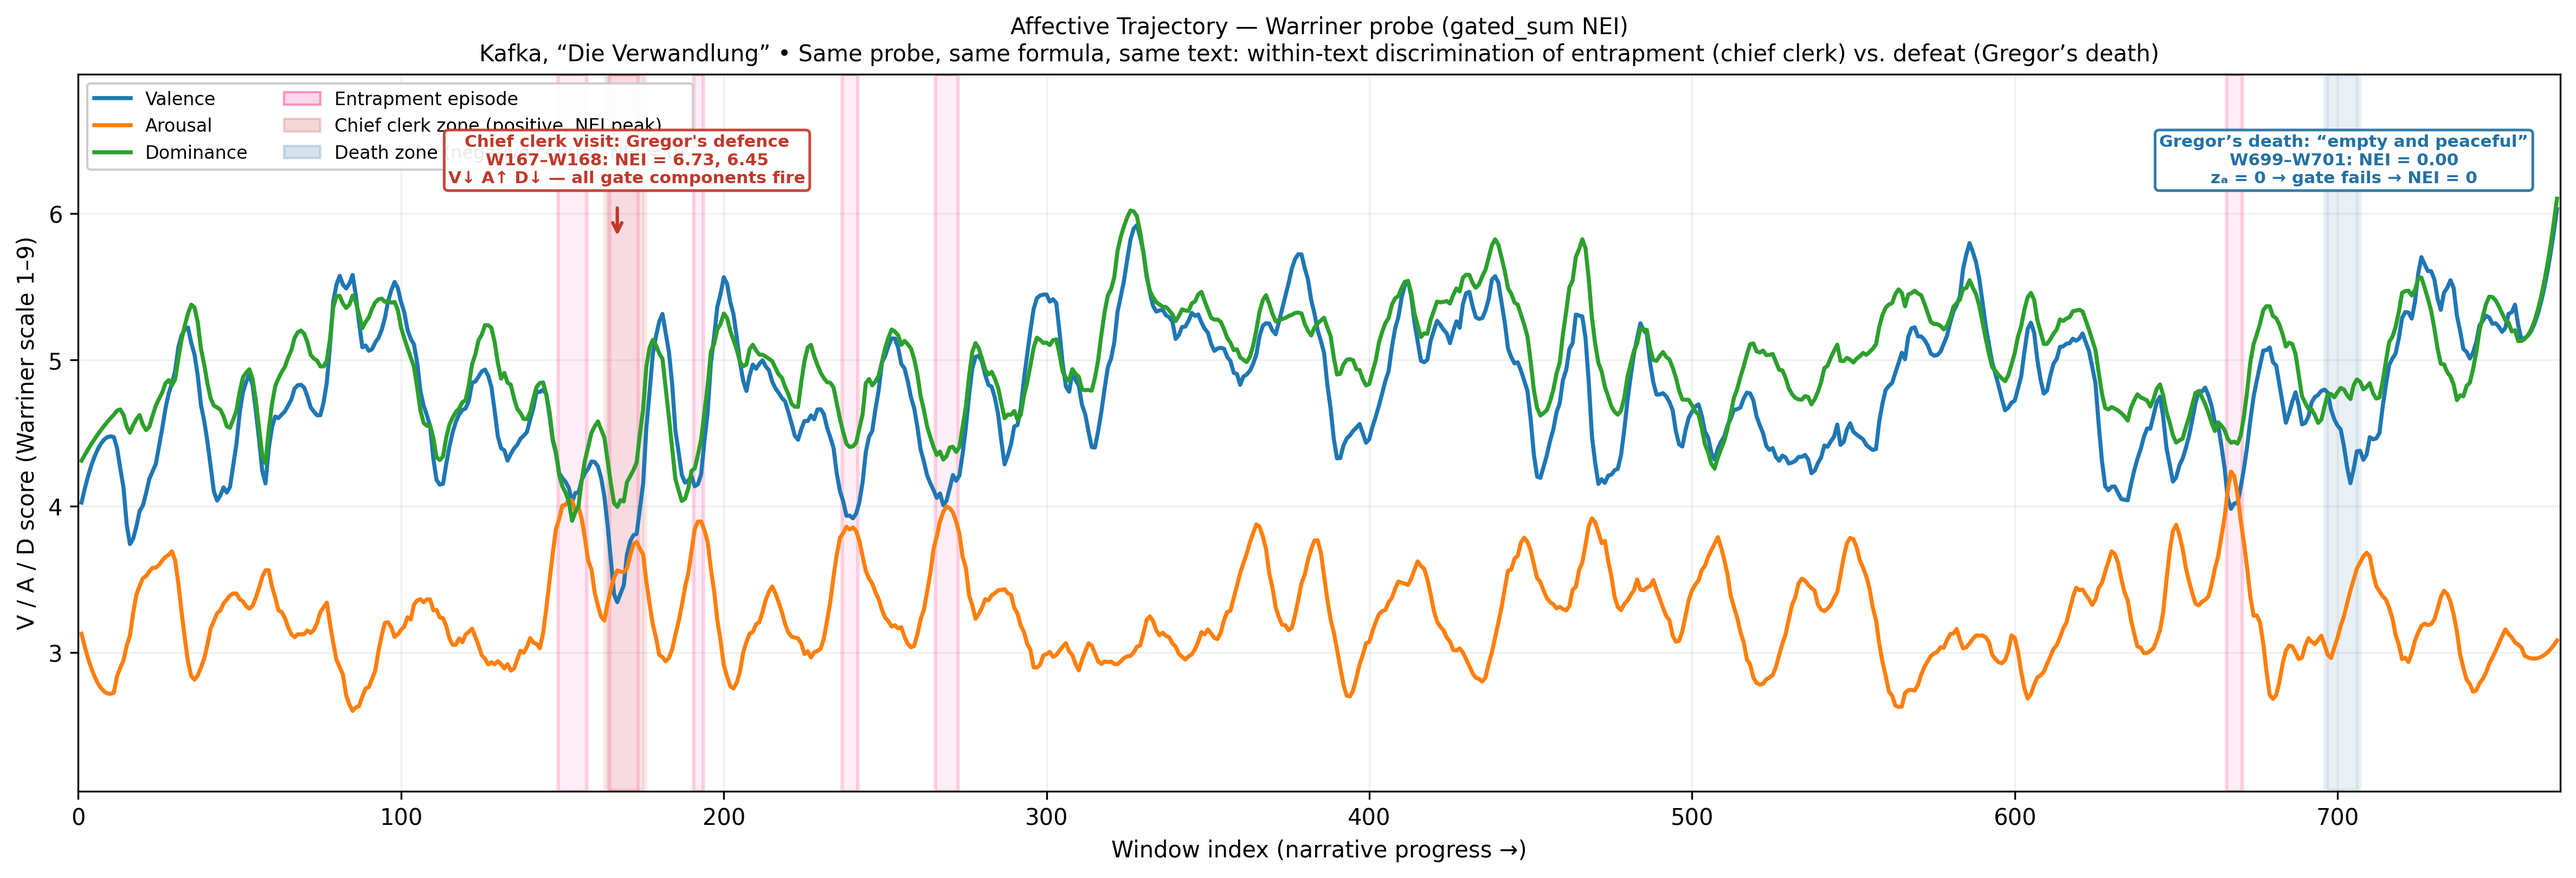
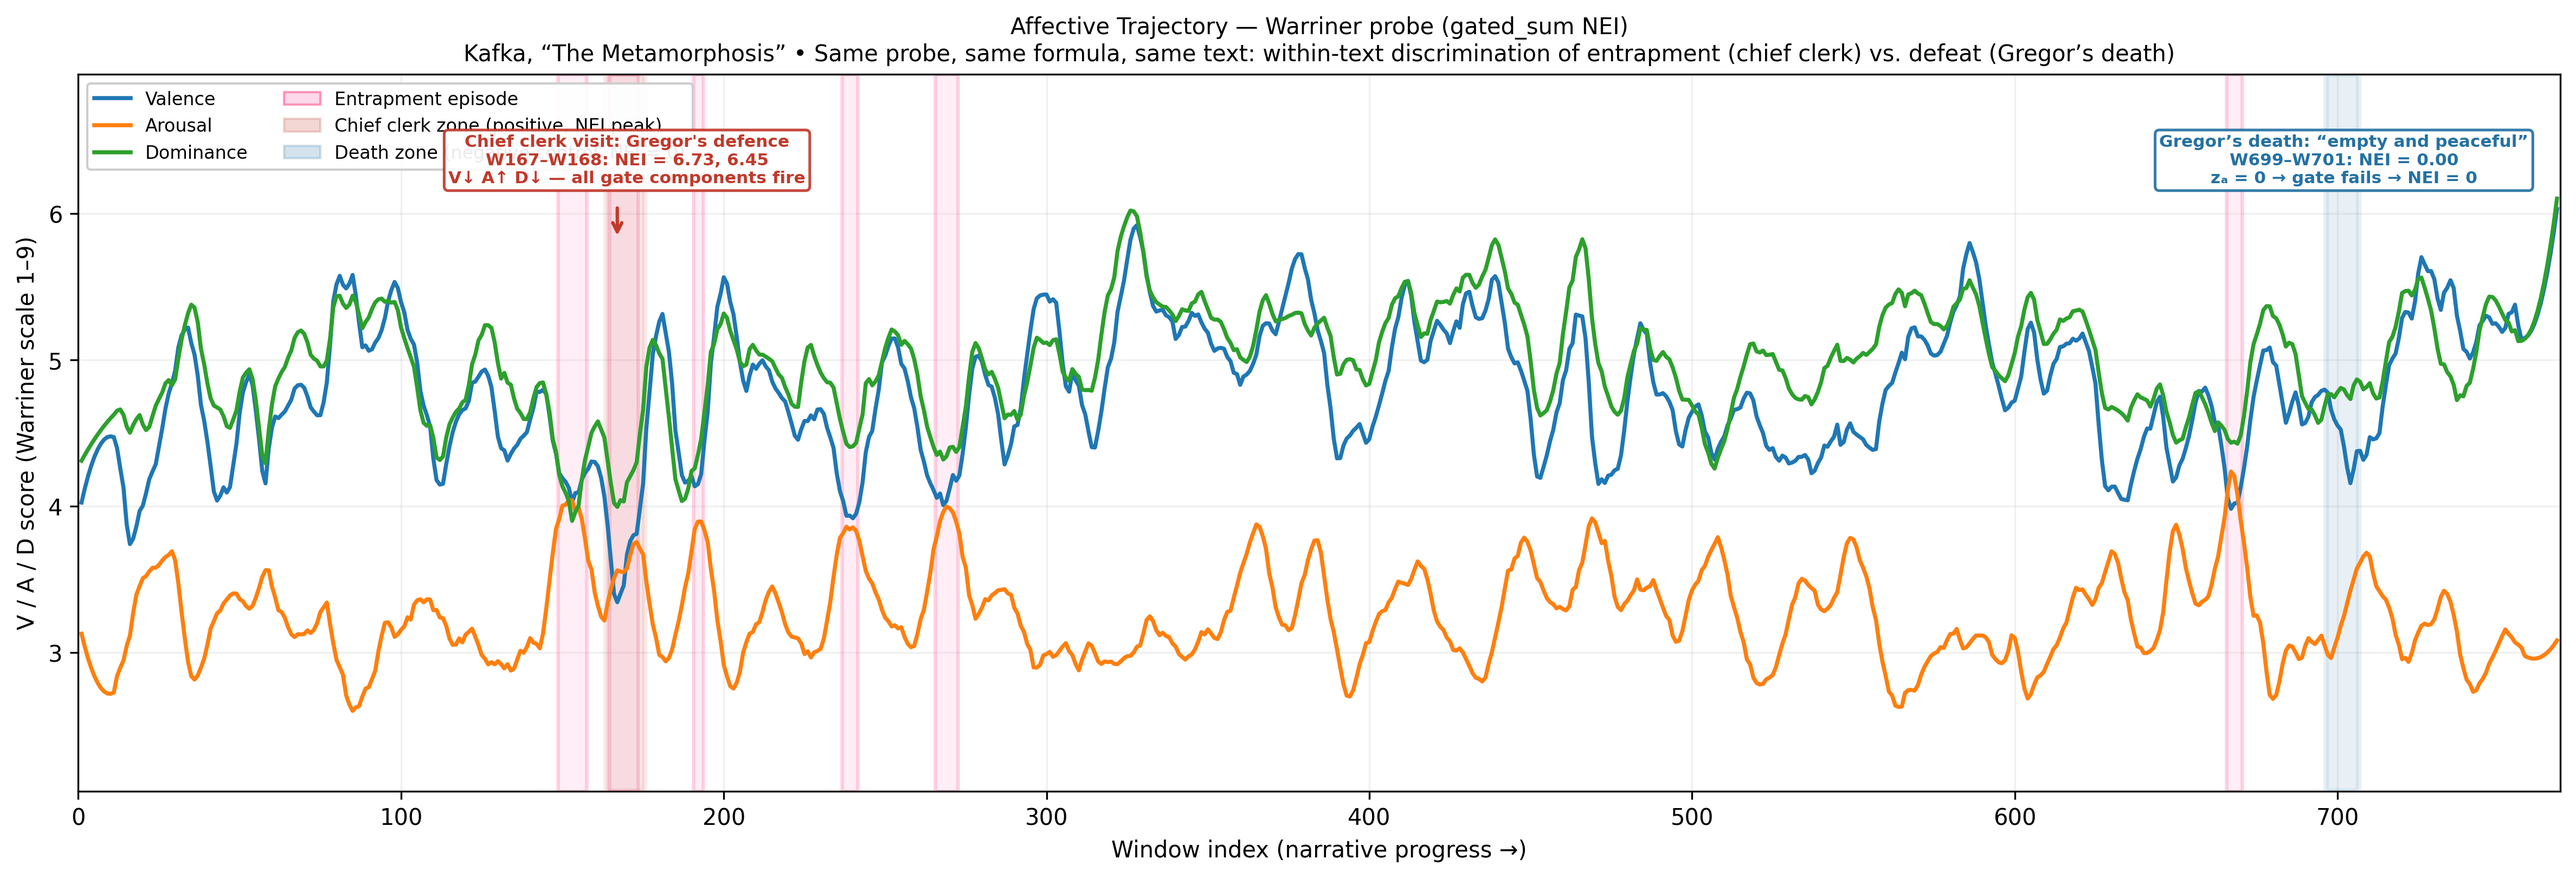
Use English title 'The Metamorphosis' in figure labels for consistency

Changed region(s): [[0.1869, 0.0309, 0.8409, 0.0926]]

diff --git a/plot_eda_lexicons.py b/plot_eda_lexicons.py
@@ -98,7 +98,7 @@ def scatter_panel(ax, x, y, dim, color, word_r, n_words):
     traj_trial_r = TRAJECTORY_TRIAL_R[dim]
     label = (
         f"Word-level r = {word_r:.2f}  (n={n_words:,})\n"
-        f"Traj. r = {traj_r:.3f}  (Verwandlung)\n"
+        f"Traj. r = {traj_r:.3f}  (Metamorphosis)\n"
         f"Traj. r = {traj_trial_r:.3f}  (Trial)"
     )
     ax.text(
@@ -161,7 +161,7 @@ def main(out_path: Path) -> None:
         f"NRC VAD v2.1 vs Warriner (2013): Word-Level Agreement on {n:,} Overlapping Terms\n"
         "Warriner scores mapped to −1…+1 scale for comparison. "
         "Diagonal = perfect agreement. Annotations show word-level (this figure) "
-        "and trajectory-level (Verwandlung / Trial) Pearson r.",
+        "and trajectory-level (Metamorphosis / Trial) Pearson r.",
         fontsize=9, y=1.01
     )
 
@@ -169,7 +169,7 @@ def main(out_path: Path) -> None:
     fig.text(
         0.5, -0.04,
         "Dominance (D) shows the lowest word-level agreement (r ≈ 0.33) — consistent with Mohammad (2025) — "
-        "and diverges further at trajectory level (r = 0.19 on Verwandlung, r = 0.10 on The Trial), "
+        "and diverges further at trajectory level (r = 0.19 on The Metamorphosis, r = 0.10 on The Trial), "
         "revealing that contextual application via SBERT amplifies the structural D-disagreement inherent to the lexicons.",
         ha="center", fontsize=8, style="italic", wrap=True,
         bbox=dict(boxstyle="round,pad=0.4", facecolor="#fff8e7", alpha=0.9, edgecolor="#ccaa00")

diff --git a/plot_dualprobe_trajectory.py b/plot_dualprobe_trajectory.py
@@ -140,7 +140,7 @@ def plot_dualprobe(dfw, dfn, neiw, nein):
 
     axes[1].set_xlabel("Window index (narrative progress →)", fontsize=10)
     fig.suptitle(
-        "Warriner and NRC v2.1 affective trajectories — Kafka, Die Verwandlung\n"
+        "Warriner and NRC v2.1 affective trajectories — Kafka, The Metamorphosis\n"
         "Both probes fire at the chief clerk scene (W167–168) and return NEI = 0 at Gregor's death",
         fontsize=10, y=1.005,
     )
@@ -198,7 +198,7 @@ def plot_consensus(dfw, dfn, neiw, nein):
     ax.set_xlabel("Window index (narrative progress →)", fontsize=10)
     ax.set_ylabel("NEI (Narrative Entrapment Index)", fontsize=10)
     ax.set_title(
-        "Cross-probe NEI consensus — Warriner vs NRC v2.1 on Die Verwandlung\n"
+        "Cross-probe NEI consensus — Warriner vs NRC v2.1 on The Metamorphosis\n"
         "Shaded: 3 episodes where both probes exceed their 95th-percentile threshold",
         fontsize=10,
     )

diff --git a/plot_f1_annotated.py b/plot_f1_annotated.py
@@ -176,7 +176,7 @@ def render(windows: pd.DataFrame, nei_df: pd.DataFrame,
     ax.set_ylabel("V / A / D score (Warriner scale 1–9)", fontsize=10)
     ax.set_title(
         "Affective Trajectory — Warriner probe (gated_sum NEI)\n"
-        "Kafka, “Die Verwandlung” • Same probe, same formula, same text: "
+        "Kafka, “The Metamorphosis” • Same probe, same formula, same text: "
         "within-text discrimination of entrapment (chief clerk) vs. defeat (Gregor’s death)",
         fontsize=10
     )
